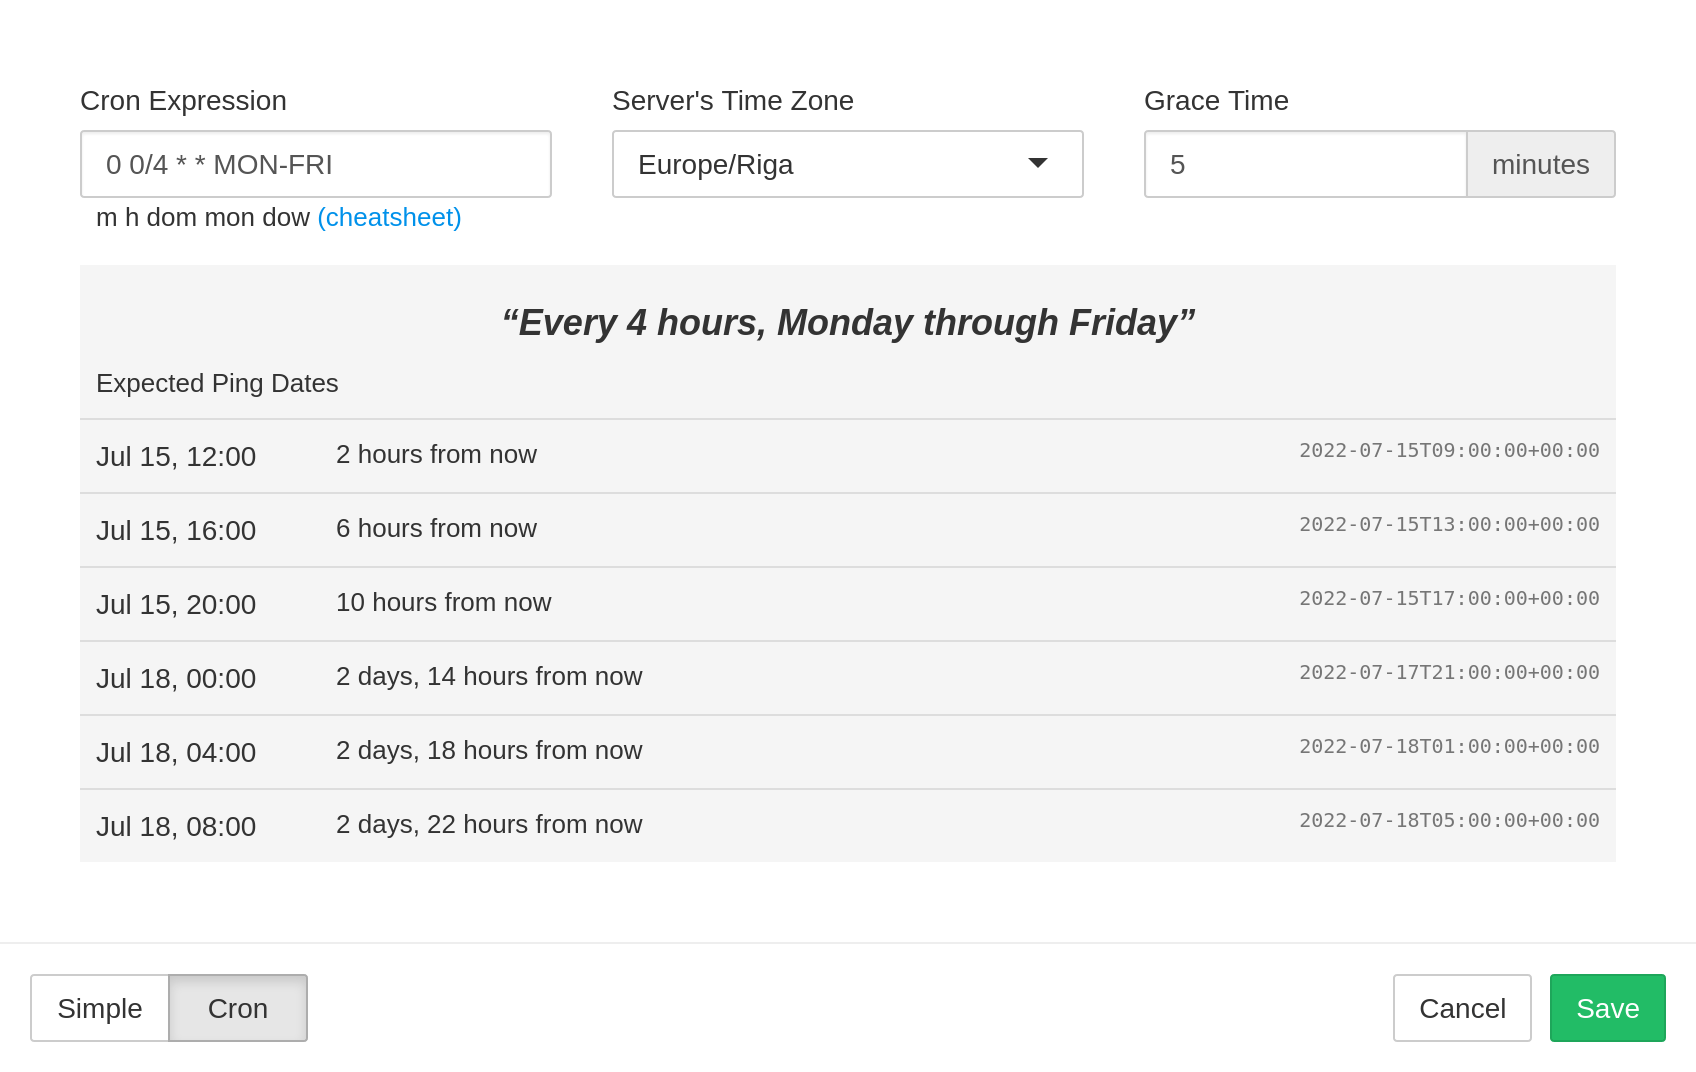
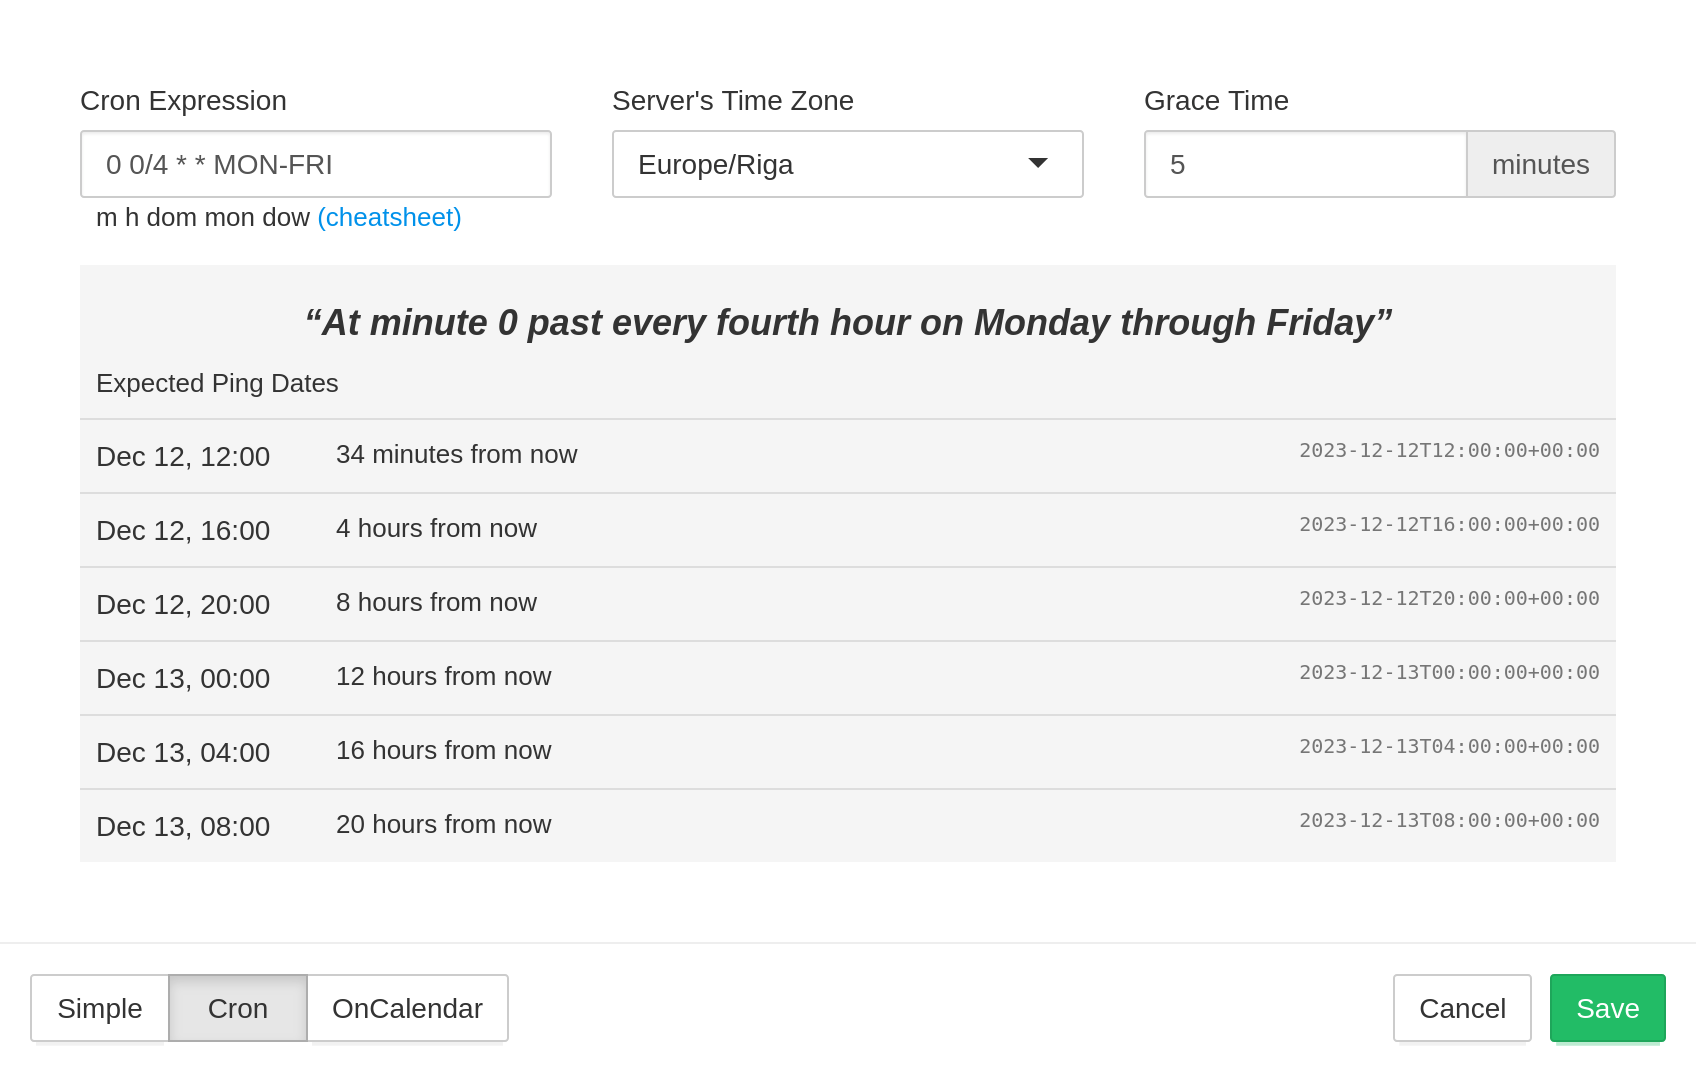
Update the "Configuring Checks" docs page with OnCalendar schedules

diff --git a/templates/docs/configuring_checks.md b/templates/docs/configuring_checks.md
@@ -30,9 +30,9 @@ case of failures, and where to look for additional information.
 
 ## Simple Schedules
 
-SITE_NAME supports two types of schedules: **Simple** and **Cron**. Use Simple
-schedules for monitoring processes that you expect to run at relatively regular
-intervals: once an hour, once a day, once a week, etc.
+SITE_NAME supports three types of schedules: **Simple**, **Cron**, and **OnCalendar**.
+Use Simple schedules for monitoring processes that you expect to run at relatively
+regular intervals: once an hour, once a day, once a week, etc.
 
 ![Editing the period and grace time](IMG_URL/edit_simple_schedule.png)
 
@@ -51,9 +51,13 @@ configured Grace Time, SITE_NAME will mark the check as failed and send out aler
 
 ## Cron Schedules
 
-Use "cron" for monitoring processes with more complex schedules. This monitoring mode
-ensures that jobs run **at the correct time** and not just at the correct time
-intervals.
+Use "Cron" for monitoring cron jobs and other processes with more complex schedules.
+This monitoring mode ensures that jobs run **at the correct time** and not just at
+the correct time intervals.
+
+See [Cron syntax cheatsheet](../cron/) for cron expression syntax examples.
+See [crontab(5) man page](https://www.man7.org/linux/man-pages/man5/crontab.5.html)
+for complete cron syntax reference.
 
 ![Editing cron schedule](IMG_URL/edit_cron_schedule.png)
 
@@ -65,6 +69,17 @@ the system's local time. If the machine does not use the UTC timezone, specify i
 timezone here.
 * **Grace Time**, same as for simple schedules, is how long to wait before sending an
 alert for a late check.
+
+## OnCalendar Schedules
+
+Use "OnCalendar" schedules to monitor systemd timers that use `OnCalendar=` schedules.
+Same as with systemd timers, you can specify more than one `OnCalendar` expression,
+and SITE_NAME will expect a ping whenever any schedule matches.
+
+See [systemd.time(7) man page](https://www.man7.org/linux/man-pages/man7/systemd.time.7.html#CALENDAR_EVENTS)
+for complete OnCalendar syntax reference.
+
+![Editing cron schedule](IMG_URL/edit_oncalendar_schedule.png)
 
 ## Filtering Rules
 
